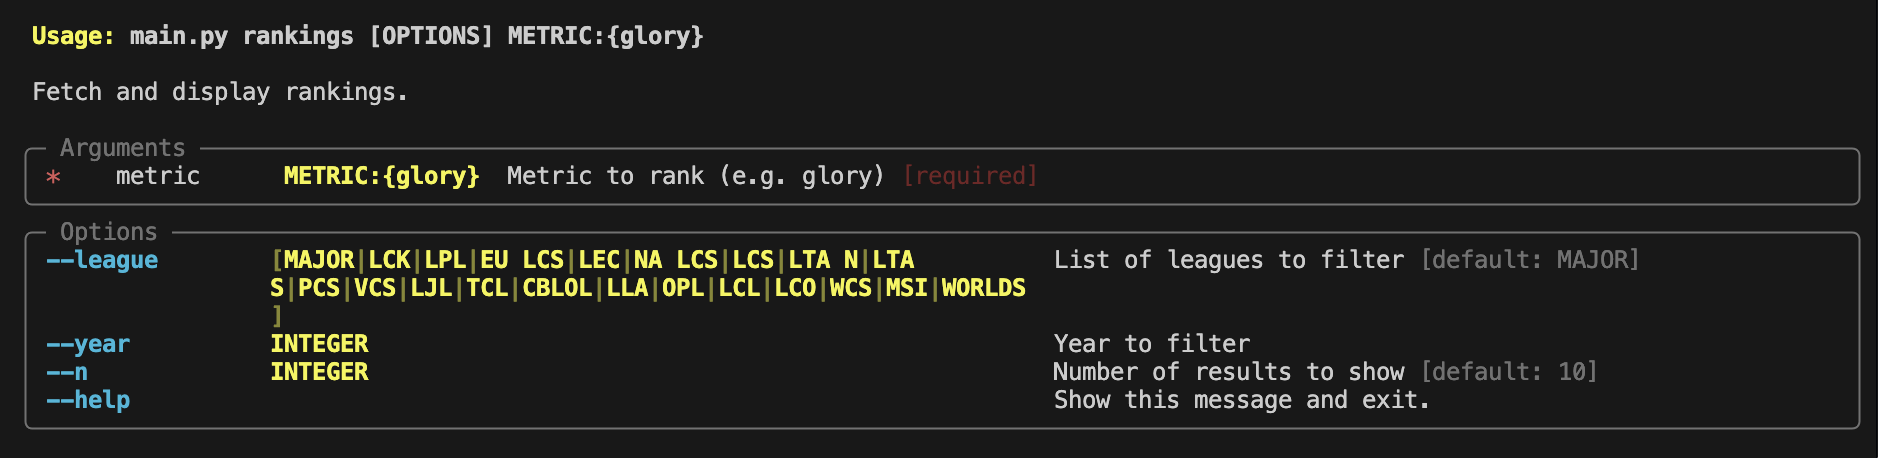
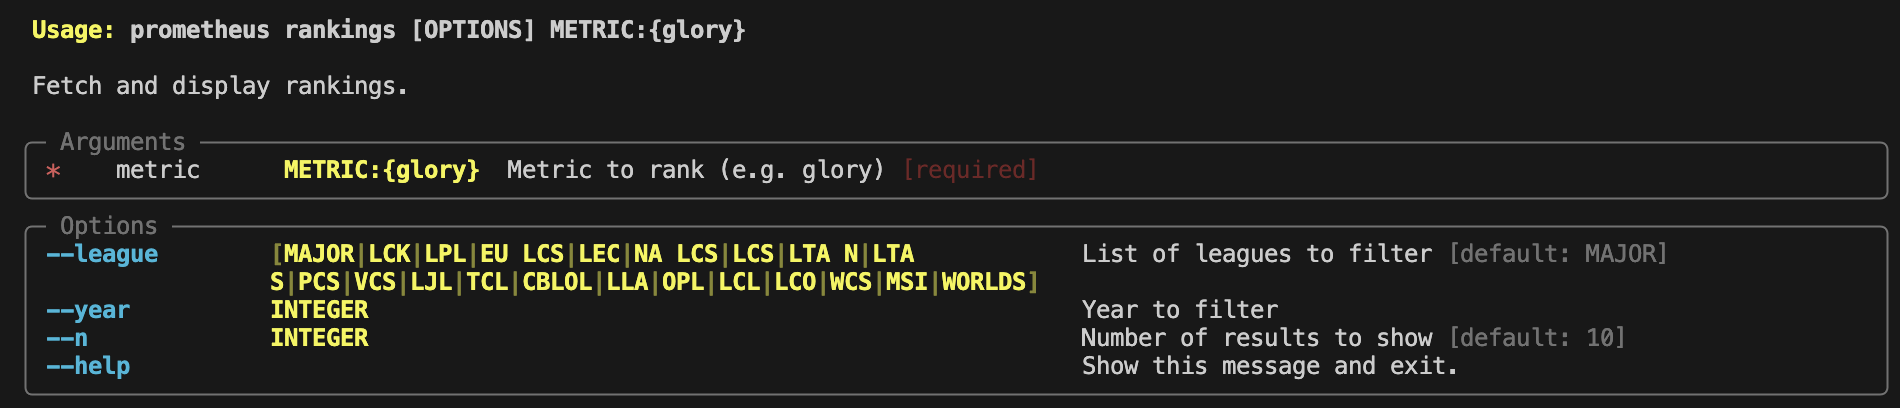
add prometheus entry script

Changed region(s): [[0.0, 0.2941, 1.0, 0.9706], [0.0, 0.0294, 0.4015, 0.1176], [0.0, 0.1765, 0.2162, 0.2353]]

diff --git a/README.md b/README.md
@@ -12,7 +12,7 @@ The prometheus CLI provides users the ability to view past of current ratings fo
 For example, the following command will show the top rankings of the `GLORY` metric for all major regions in a given year.
 
 ```
-$ python main.py rankings glory --league MAJOR --year 2024
+$ prometheus rankings glory --league MAJOR --year 2024
 
 ┏━━━━━━━━━━━━━━━━━━━━━━━━━━━━━━━┓
 ┃ GLORY Rankings (MAJOR | 2024) ┃
@@ -34,10 +34,10 @@ $ python main.py rankings glory --league MAJOR --year 2024
 ## Goals
 - [x] One advanced metric (GLORY) that evaluates team performance
 - [ ] One advanced metric that evaluates individual player performance
-- [ ] SQL database that stores match, team, player, and stat tables
+- [ ] SQL database that stores ~~match~~, player, and ~~stat~~ tables
 - [ ] Self-hosted webpage for exploring stat rankings
 - [x] CLI for dynamically viewing metrics
-- [ ] Metrics span 5+ years of data over all major regions
+- [x] Metrics span 5+ years of data over all major regions
 ## Metrics
 ### Team-based
 These metrics evaluate the strength of a team. Their main purpose is to compare the strength of a given team compared to teams across regions. 
